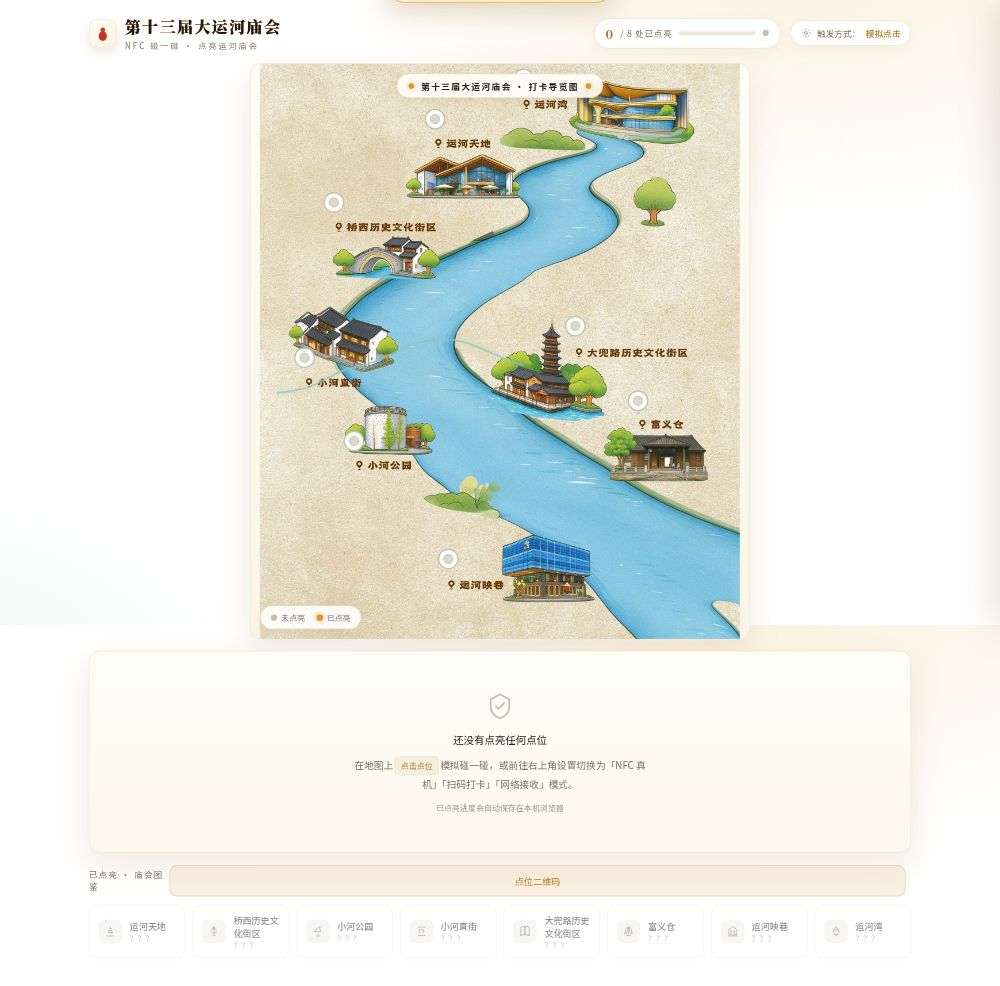
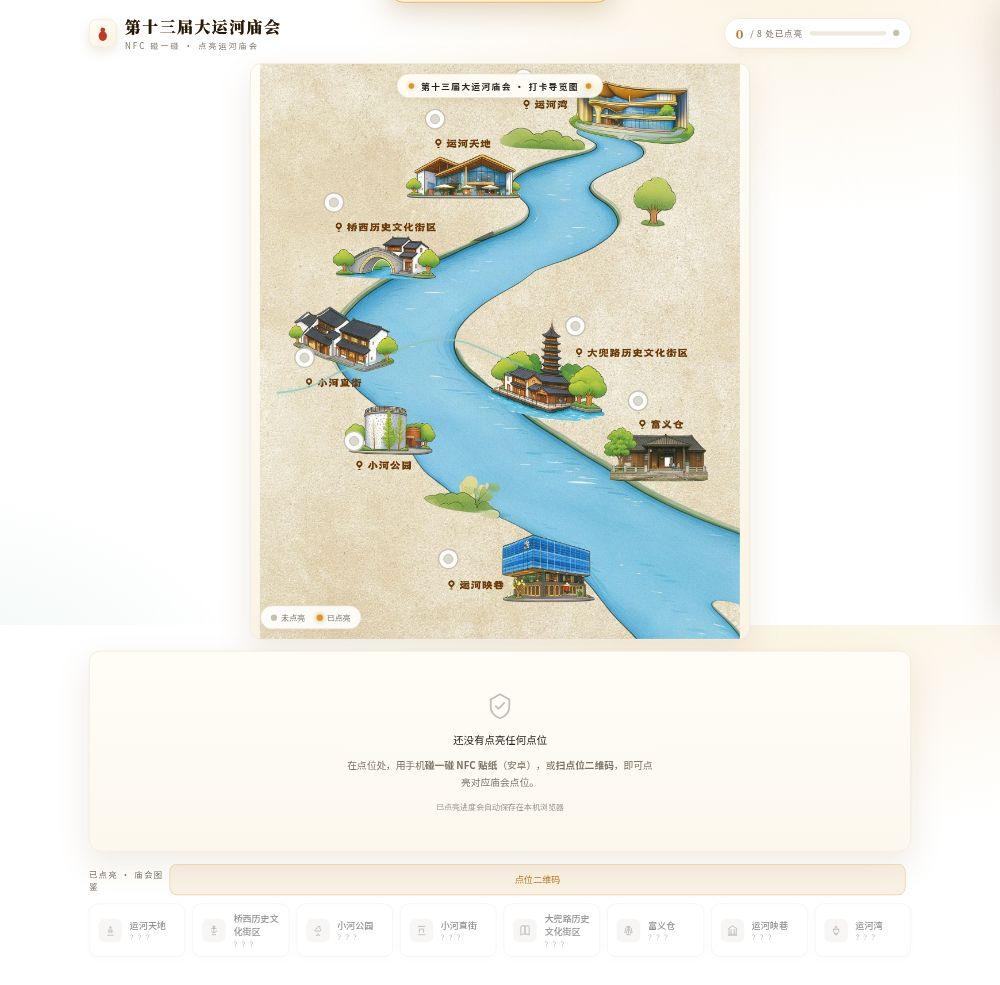
修复设置抽屉横向溢出

diff --git a/index.html b/index.html
@@ -8,6 +8,7 @@
 <link rel="preconnect" href="https://miaoda.feishu.cn">
 <link href="https://miaoda.feishu.cn/fonts/css2?family=Noto+Serif+SC:wght@500;700;900&family=Noto+Sans+SC:wght@300;400;500;700&display=swap" rel="stylesheet">
 <style>
+html,body{overflow-x:hidden}
 :root{
   --ink:#fdfbf4;
   --ink-2:#fffdf6;
